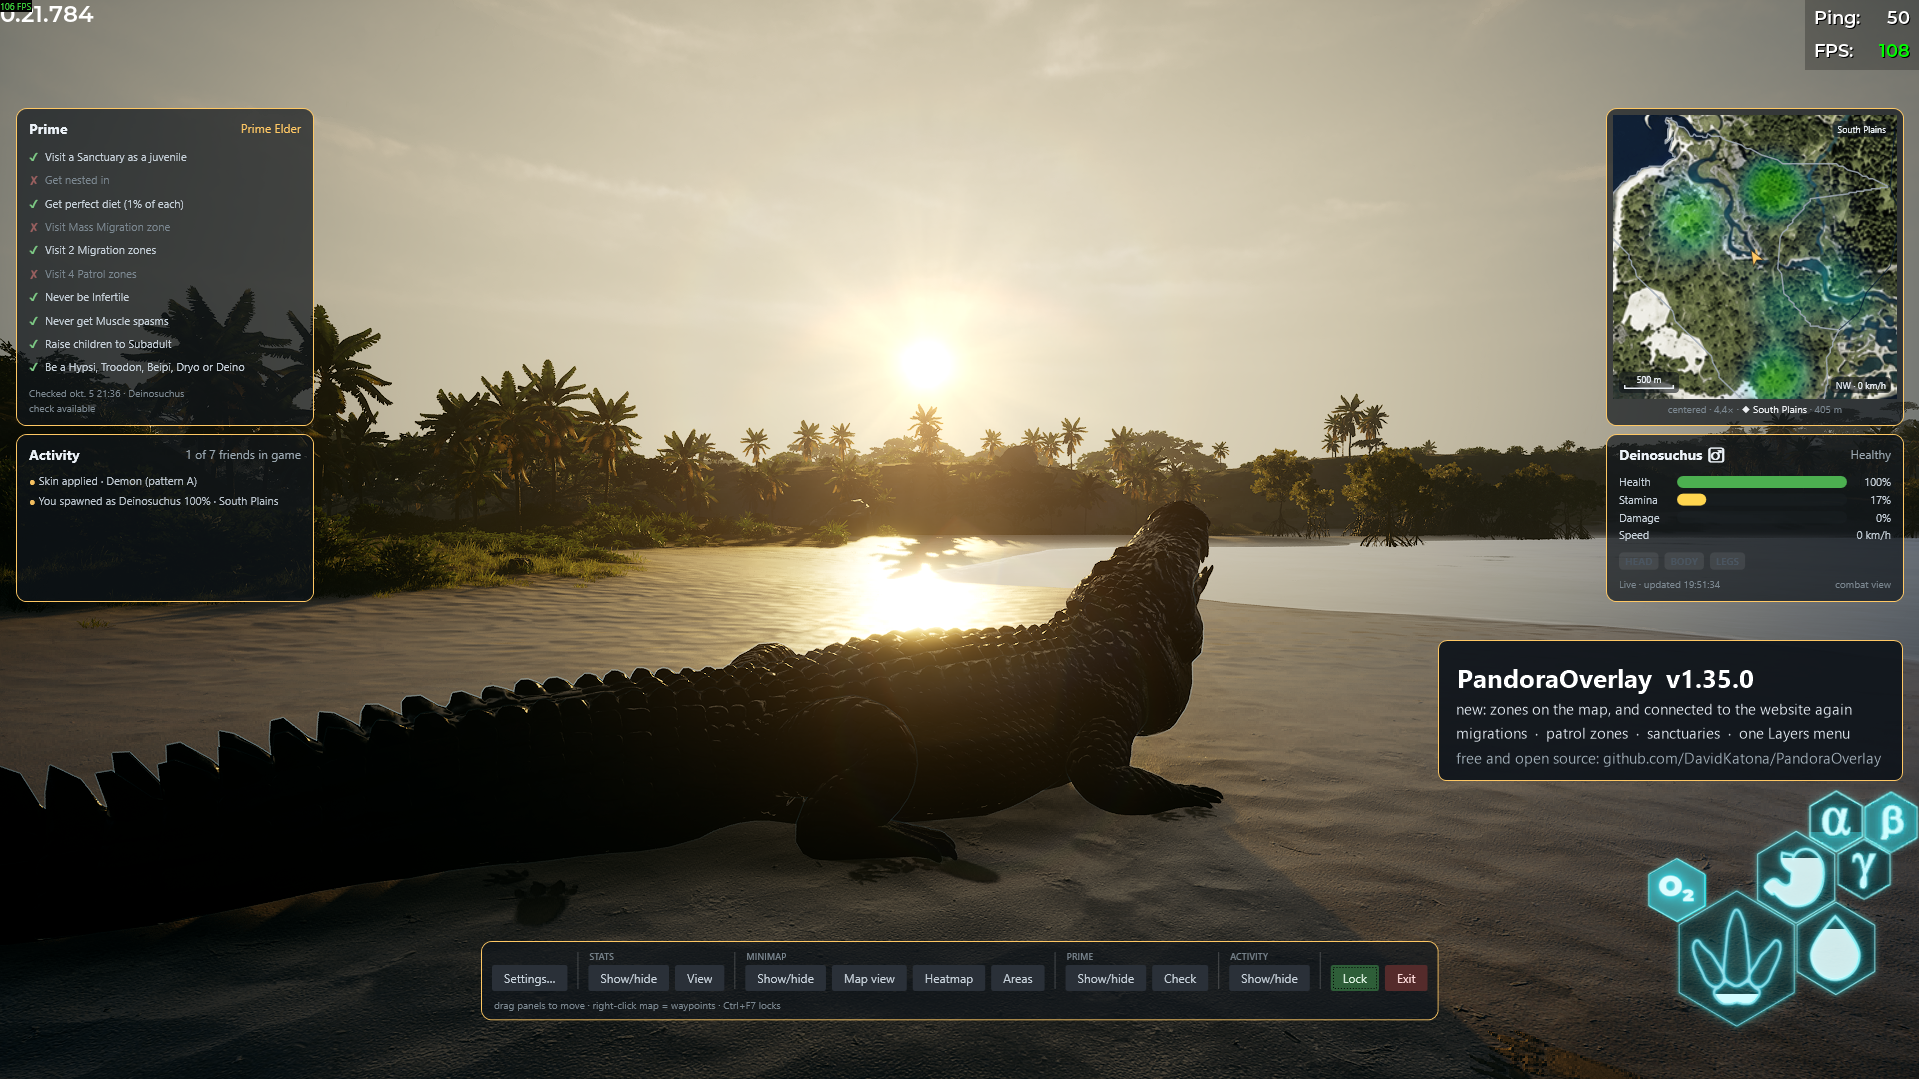
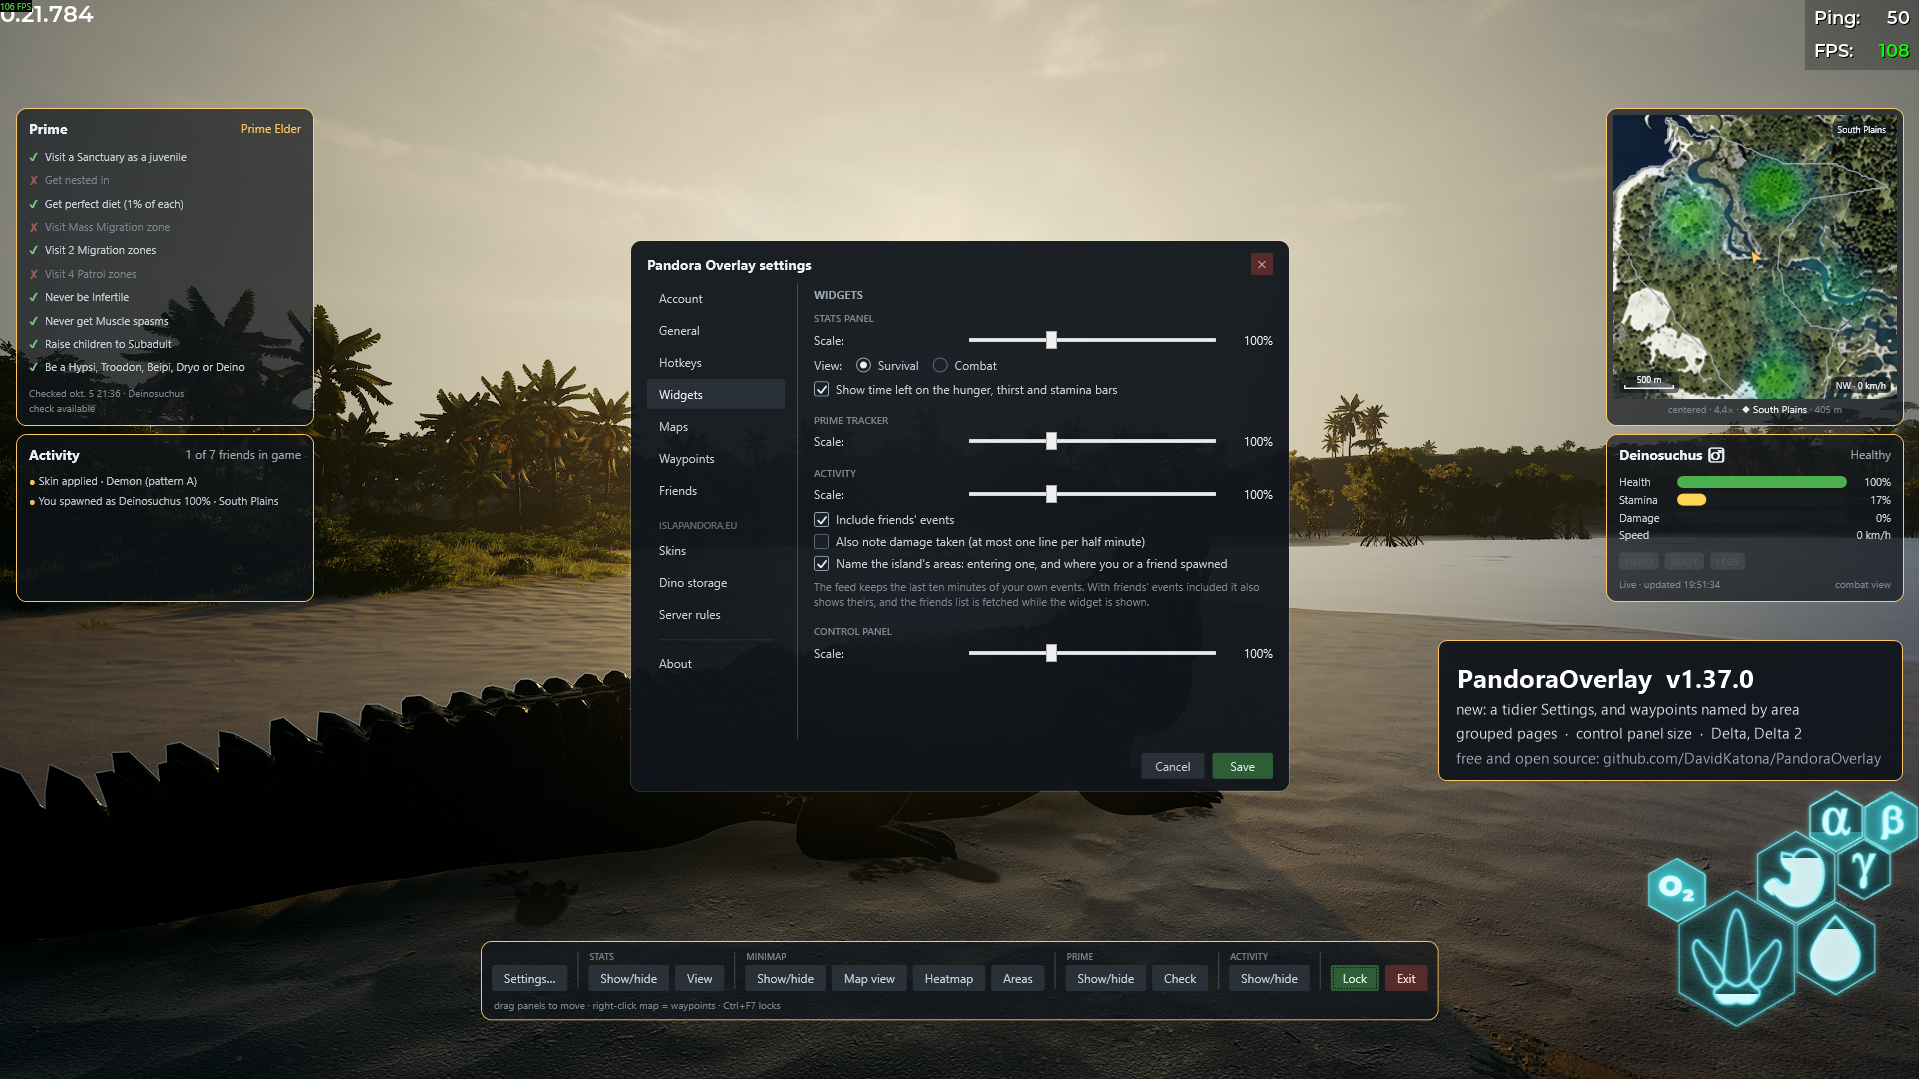
README: hero screenshot for 1.37.0 (the new Settings, area-named waypoints)
The sunset base with the real Settings dialog on its Widgets page drawn where
it opens on a 1080p screen, as for 1.33: rendered off-screen from a clean
build of v1.37.0 (no access file in it), then the caption box: "new: a
tidier Settings, and waypoints named by area" / "grouped pages · control
panel size · Delta, Delta 2". The alt text describes the new frame and
caption.

Changed region(s): [[0.3075, 0.2141, 0.6764, 0.734], [0.7686, 0.6423, 0.9531, 0.7034]]

diff --git a/README.md b/README.md
@@ -9,7 +9,7 @@ It is **fully external**: everything it does goes through the same logged-in HTT
 [![Downloads](https://img.shields.io/github/downloads/DavidKatona/PandoraOverlay/total)](https://github.com/DavidKatona/PandoraOverlay/releases)
 [![License: MIT](https://img.shields.io/github/license/DavidKatona/PandoraOverlay)](LICENSE)
 
-![The overlay in-game, in edit mode, in the default two-column layout: the Prime tracker and the Activity feed top-left, the player-centered minimap and the stats panel in its Combat view top-right, and the control panel bottom-center, over a Deinosuchus resting on a beach at sunset; the minimap's pill names the area, "South Plains", with the heatmap and the area borders on, the Activity feed reads "You spawned as Deinosuchus 100% · South Plains", and a caption box names version 1.35.0 and what is new: zones on the map and connected to the website again, migrations, patrol zones, sanctuaries, one Layers menu](docs/screenshot.png)
+![The overlay in-game, in edit mode, in the default two-column layout: the Prime tracker and the Activity feed top-left, the player-centered minimap and the stats panel in its Combat view top-right, and the control panel bottom-center, over a Deinosuchus resting on a beach at sunset; the minimap's pill names the area, "South Plains", with the heatmap and the area borders on, and the Activity feed reads "You spawned as Deinosuchus 100% · South Plains". In the middle, the Settings dialog is open on its Widgets page: the grouped list of pages on the left, with the website's pages under an "ISLAPANDORA.EU" heading, and a Scale slider each for the stats panel, the Prime tracker, the Activity feed and the control panel. A caption box names version 1.37.0 and what is new: a tidier Settings, and waypoints named by area; grouped pages, control panel size, Delta, Delta 2](docs/screenshot.png)
 
 
 ## Contents
